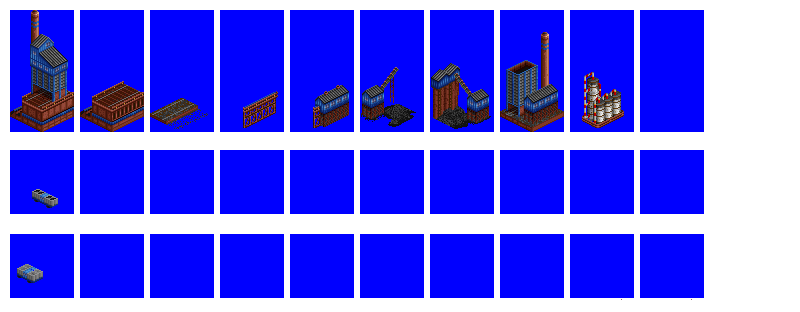
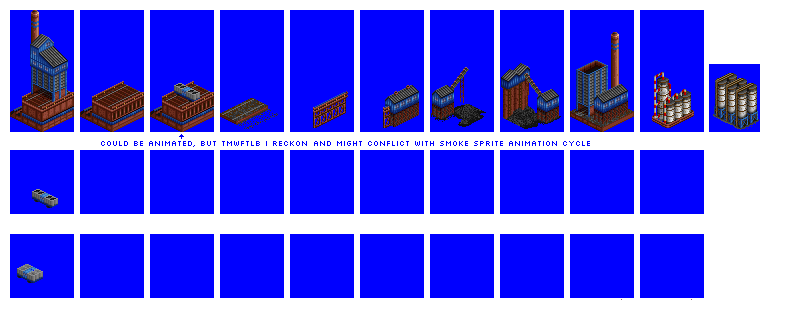
Fix: prevent flickering larry car sprite at Coke Oven, also prevent larry car smoke animations synchronising across multiple tiles

diff --git a/src/industries/coke_oven.py b/src/industries/coke_oven.py
@@ -40,6 +40,10 @@ industry.add_tile(
     animation_length=47,
     animation_looping=True,
     animation_speed=2,
+    custom_animation_control={
+        "macro": "random_first_frame",
+        "animation_triggers": "bitmask(ANIM_TRIGGER_INDTILE_CONSTRUCTION_STATE)",
+    },
     location_checks=TileLocationChecks(
         require_effectively_flat=True, disallow_industry_adjacent=True
     ),
@@ -56,32 +60,32 @@ spriteset_silo = industry.add_spriteset(
 spriteset_oven_battery = industry.add_spriteset(
     sprites=[(80, 10, 64, 122, -31, -91)],
 )
-spriteset_larry_car = industry.add_spriteset(
-    sprites=[(10, 150, 64, 64, -31, -56)],
+spriteset_oven_battery_larry_car = industry.add_spriteset(
+    sprites=[(150, 10, 64, 122, -31, -91)],
 )
 spriteset_pusher_rails_base = industry.add_spriteset(
-    sprites=[(150, 10, 64, 122, -31, -91)], yextent=8  # prevents gantry flickering ??
+    sprites=[(220, 10, 64, 122, -31, -91)], yextent=8  # prevents gantry flickering ??
 )
 spriteset_pusher_car = industry.add_spriteset(
     sprites=[(10, 234, 64, 64, -31, -32)], yextent=8  # prevents gantry flickering ??
 )
 spriteset_pipe_gantry = industry.add_spriteset(
-    sprites=[(220, 10, 64, 122, -31, -91)],
-)
-spriteset_pipe_gantry_house = industry.add_spriteset(
     sprites=[(290, 10, 64, 122, -31, -91)],
 )
-spriteset_coal_handling_front = industry.add_spriteset(
+spriteset_pipe_gantry_house = industry.add_spriteset(
     sprites=[(360, 10, 64, 122, -31, -91)],
 )
-spriteset_coal_handling_rear = industry.add_spriteset(
+spriteset_coal_handling_front = industry.add_spriteset(
     sprites=[(430, 10, 64, 122, -31, -91)],
 )
-spriteset_quench_tower = industry.add_spriteset(
+spriteset_coal_handling_rear = industry.add_spriteset(
     sprites=[(500, 10, 64, 122, -31, -91)],
 )
-spriteset_gas_plant_1 = industry.add_spriteset(
+spriteset_quench_tower = industry.add_spriteset(
     sprites=[(570, 10, 64, 122, -31, -91)],
+)
+spriteset_gas_plant_1 = industry.add_spriteset(
+    sprites=[(640, 10, 64, 122, -31, -91)],
 )
 sprite_smoke_big_1 = industry.add_smoke_sprite(
     smoke_type="white_smoke_big",
@@ -122,10 +126,10 @@ industry.add_spritelayout(
     building_sprites=[spriteset_oven_battery],
 )
 industry.add_spritelayout(
-    id="coke_oven_spritelayout_oven_battery_animated",
+    id="coke_oven_spritelayout_oven_battery_larry_car",
     ground_sprite=sprite_ground,
     ground_overlay=spriteset_ground_overlay,
-    building_sprites=[spriteset_oven_battery, spriteset_larry_car],
+    building_sprites=[spriteset_oven_battery_larry_car],
     smoke_sprites=[sprite_smoke_small_1, sprite_smoke_small_2],
 )
 industry.add_spritelayout(
@@ -187,7 +191,7 @@ industry.add_industry_layout(
     id="coke_oven_industry_layout_1",
     layout=[
         (0, 0, "coke_oven_tile_1", "coke_oven_spritelayout_gas_plant_1"),
-        (0, 1, "coke_oven_tile_2", "coke_oven_spritelayout_oven_battery_animated"),
+        (0, 1, "coke_oven_tile_2", "coke_oven_spritelayout_oven_battery_larry_car"),
         (0, 2, "coke_oven_tile_1", "coke_oven_spritelayout_pusher_rails_empty"),
         (1, 0, "coke_oven_tile_1", "coke_oven_spritelayout_coal_handling_rear"),
         (1, 1, "coke_oven_tile_1", "coke_oven_spritelayout_oven_battery_pipes_only"),
@@ -211,7 +215,7 @@ industry.add_industry_layout(
         (0, 2, "coke_oven_tile_1", "coke_oven_spritelayout_pusher_rails_with_house"),
         (0, 3, "coke_oven_tile_1", "coke_oven_spritelayout_gas_plant_1"),
         (1, 0, "coke_oven_tile_1", "coke_oven_spritelayout_coal_handling_front"),
-        (1, 1, "coke_oven_tile_2", "coke_oven_spritelayout_oven_battery_animated"),
+        (1, 1, "coke_oven_tile_2", "coke_oven_spritelayout_oven_battery_larry_car"),
         (1, 2, "coke_oven_tile_1", "coke_oven_spritelayout_pusher_rails_empty"),
         (1, 3, "coke_oven_tile_1", "coke_oven_spritelayout_empty"),
         (2, 0, "coke_oven_tile_1", "coke_oven_spritelayout_empty"),
@@ -227,14 +231,14 @@ industry.add_industry_layout(
 industry.add_industry_layout(
     id="coke_oven_industry_layout_3",
     layout=[
-        (0, 0, "coke_oven_tile_2", "coke_oven_spritelayout_oven_battery_animated"),
+        (0, 0, "coke_oven_tile_2", "coke_oven_spritelayout_oven_battery_larry_car"),
         (0, 1, "coke_oven_tile_1", "coke_oven_spritelayout_pusher_rails_with_house"),
         (0, 2, "coke_oven_tile_1", "coke_oven_spritelayout_quench_tower"),
         (0, 3, "coke_oven_tile_1", "coke_oven_spritelayout_gas_plant_1"),
         (0, 4, "coke_oven_tile_1", "coke_oven_spritelayout_coal_handling_rear"),
         (1, 0, "coke_oven_tile_1", "coke_oven_spritelayout_silo"),
         (1, 1, "coke_oven_tile_1", "coke_oven_spritelayout_pusher_rails_animated"),
-        (1, 2, "coke_oven_tile_2", "coke_oven_spritelayout_oven_battery_animated"),
+        (1, 2, "coke_oven_tile_2", "coke_oven_spritelayout_oven_battery_larry_car"),
         (1, 3, "coke_oven_tile_1", "coke_oven_spritelayout_pusher_rails_empty"),
         (1, 4, "coke_oven_tile_1", "coke_oven_spritelayout_coal_handling_front"),
         (2, 0, "coke_oven_tile_1", "coke_oven_spritelayout_oven_battery_pipes_only"),
@@ -260,10 +264,10 @@ industry.add_industry_layout(
         (1, 0, "coke_oven_tile_1", "coke_oven_spritelayout_coal_handling_rear"),
         (1, 1, "coke_oven_tile_1", "coke_oven_spritelayout_silo"),
         (1, 2, "coke_oven_tile_1", "coke_oven_spritelayout_pusher_rails_empty"),
-        (1, 3, "coke_oven_tile_2", "coke_oven_spritelayout_oven_battery_animated"),
+        (1, 3, "coke_oven_tile_2", "coke_oven_spritelayout_oven_battery_larry_car"),
         (1, 4, "coke_oven_tile_1", "coke_oven_spritelayout_pusher_rails_empty"),
         (2, 0, "coke_oven_tile_1", "coke_oven_spritelayout_coal_handling_front"),
-        (2, 1, "coke_oven_tile_2", "coke_oven_spritelayout_oven_battery_animated"),
+        (2, 1, "coke_oven_tile_2", "coke_oven_spritelayout_oven_battery_larry_car"),
         (2, 2, "coke_oven_tile_1", "coke_oven_spritelayout_pusher_rails_animated"),
         (2, 3, "coke_oven_tile_1", "coke_oven_spritelayout_silo"),
         (2, 4, "coke_oven_tile_1", "coke_oven_spritelayout_pusher_rails_animated"),
@@ -287,11 +291,11 @@ industry.add_industry_layout(
         (1, 1, "coke_oven_tile_1", "coke_oven_spritelayout_coal_handling_front"),
         (1, 2, "coke_oven_tile_1", "coke_oven_spritelayout_oven_battery_pipes_only"),
         (1, 3, "coke_oven_tile_1", "coke_oven_spritelayout_pusher_rails_animated"),
-        (1, 4, "coke_oven_tile_2", "coke_oven_spritelayout_oven_battery_animated"),
+        (1, 4, "coke_oven_tile_2", "coke_oven_spritelayout_oven_battery_larry_car"),
         (1, 5, "coke_oven_tile_1", "coke_oven_spritelayout_pusher_rails_with_house"),
         (2, 0, "coke_oven_tile_1", "coke_oven_spritelayout_coal_handling_front"),
         (2, 1, "coke_oven_tile_1", "coke_oven_spritelayout_quench_tower"),
-        (2, 2, "coke_oven_tile_2", "coke_oven_spritelayout_oven_battery_animated"),
+        (2, 2, "coke_oven_tile_2", "coke_oven_spritelayout_oven_battery_larry_car"),
         (2, 3, "coke_oven_tile_1", "coke_oven_spritelayout_pusher_rails_with_house"),
         (2, 4, "coke_oven_tile_1", "coke_oven_spritelayout_oven_battery_pipes_only"),
         (2, 5, "coke_oven_tile_1", "coke_oven_spritelayout_pusher_rails_animated"),
